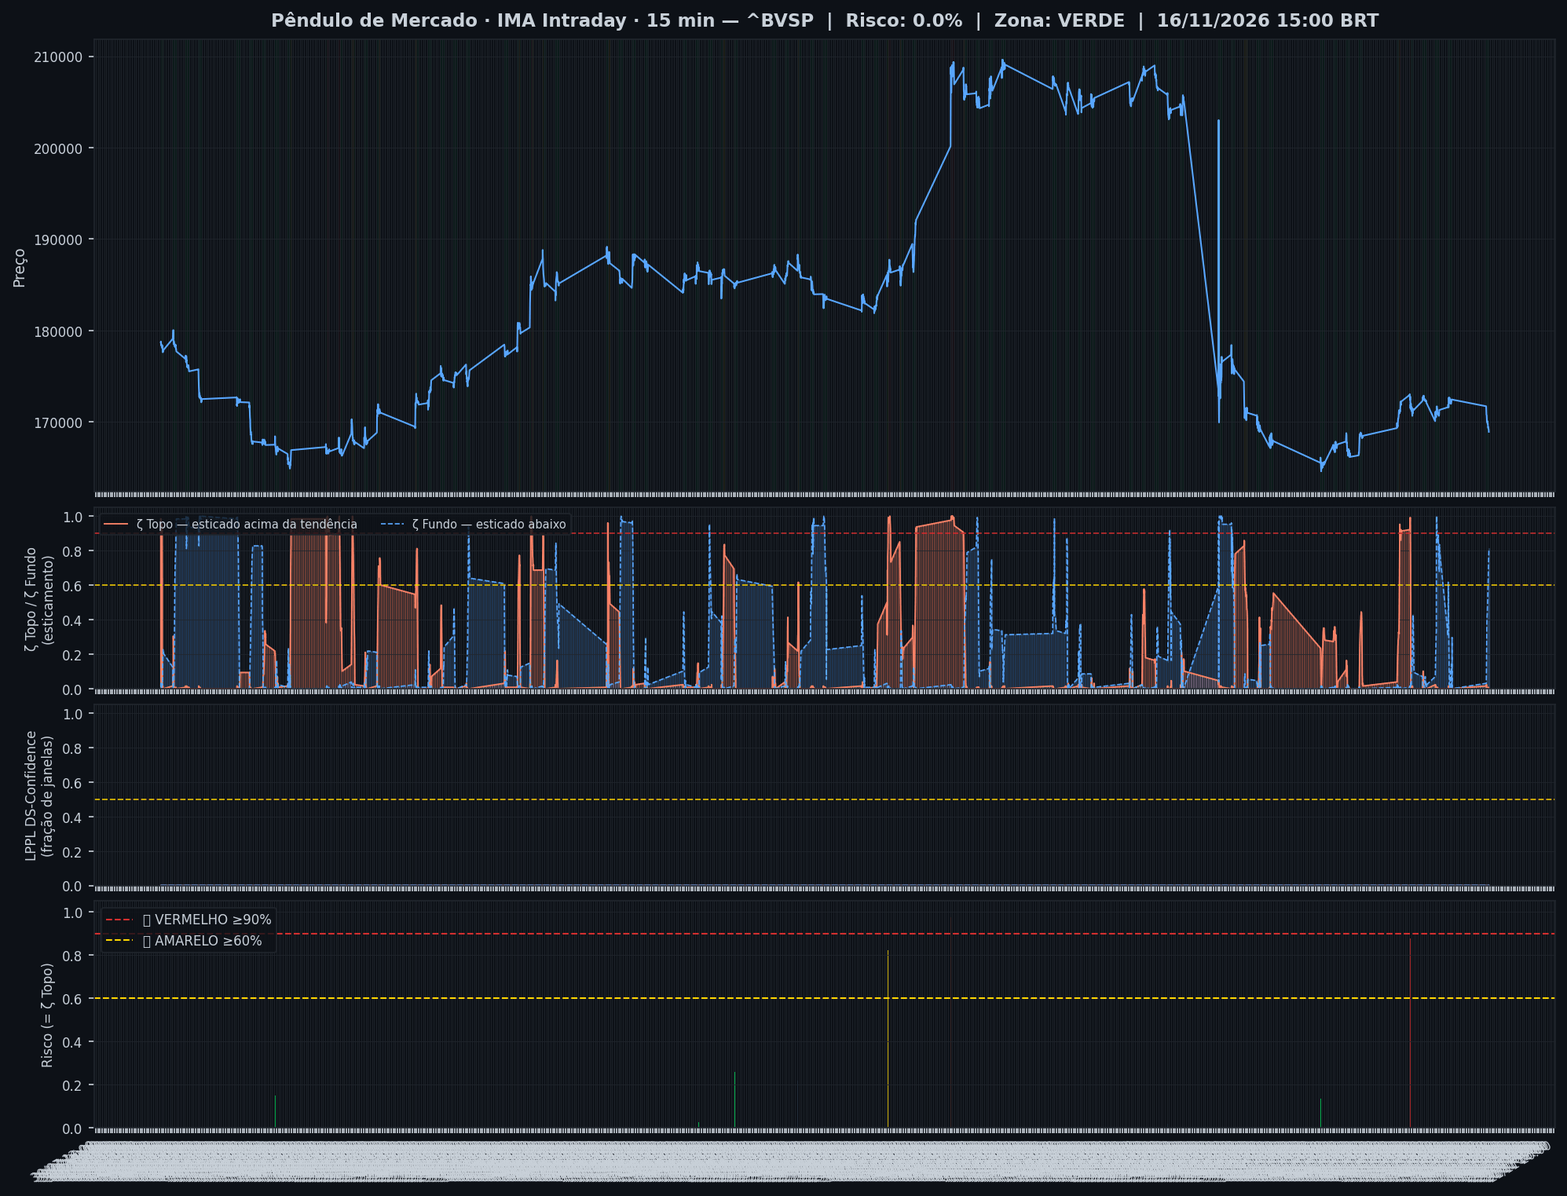
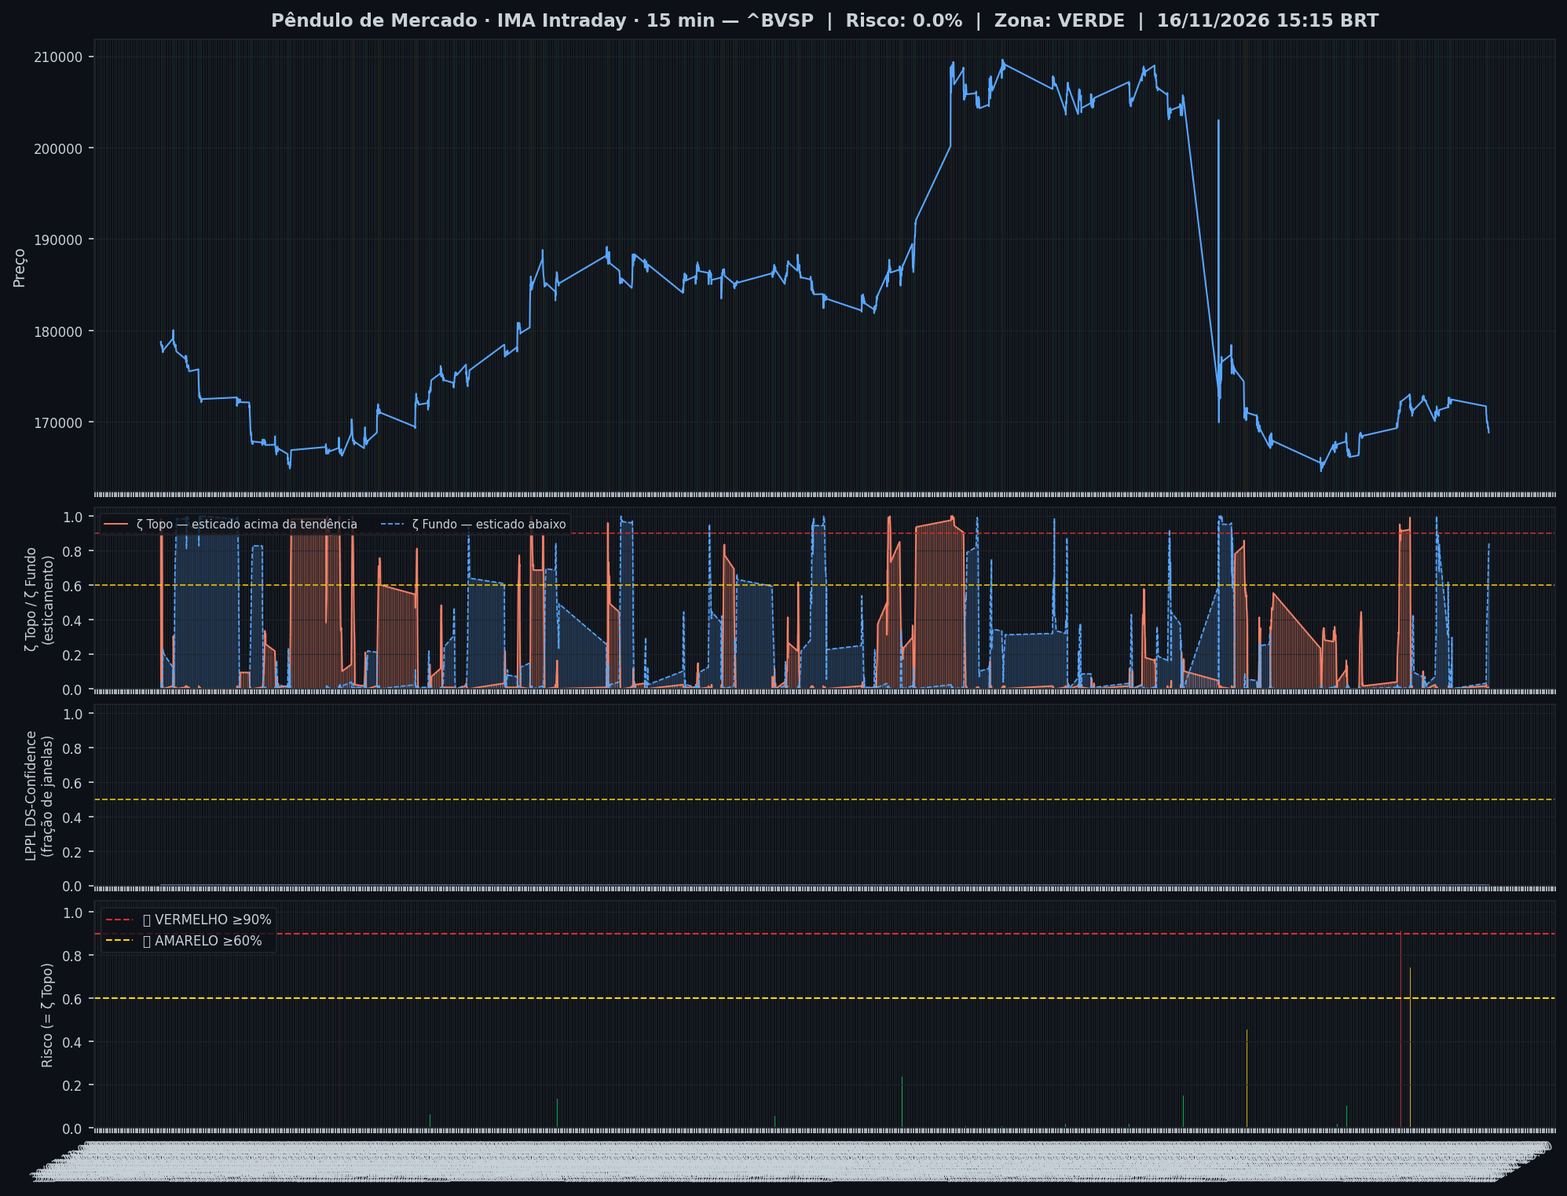
🤖 Auto: Sinal 16/11/2026 15:31

Changed region(s): [[0.0932, 0.432, 0.9634, 0.5863], [0.0311, 0.9258, 0.9945, 0.9875]]

diff --git a/quartz.layout.ts b/quartz.layout.ts
@@ -56,7 +56,8 @@ const menuCelular = Component.Explorer({
   useSavedState: true,
   sortFn: (a, b) => {
     const ordem = ["por-onde-comecar", "avisos", "diario", "intraday", "amplitude", "larry-williams",
-                   "tecnico", "calendario", "juros", "operacoes", "sinais-topo-fundo", "estrangeiros",
+                   "tecnico", "calendario", "juros", "inflacao-e-cambio", "operacoes",
+                   "sinais-topo-fundo", "estrangeiros",
                    "adr", "ofertas", "posicionamento", "agro", "linha-do-tempo", "historico",
                    "historico-anterior", "metodologia", "ranking", "tendencia", "entradas",
                    "ultimas-operacoes", "historico-por-ano", "todos-os-sinais", "tutorial",
@@ -82,13 +83,15 @@ const grupos = [
     "1 · Onde está o mercado",
     (node) => {
       const dentro = ["por-onde-comecar", "avisos", "diario", "intraday", "amplitude",
-                      "larry-williams", "tecnico", "calendario", "juros"]
+                      "larry-williams", "tecnico", "calendario", "juros",
+                      "inflacao-e-cambio"]
       const s = node.slug ?? ""
       return dentro.some((d) => s === d || s.startsWith(d + "/"))
     },
     (a, b) => {
       const ordem = ["por-onde-comecar", "avisos", "diario", "intraday", "amplitude",
-                     "larry-williams", "tecnico", "calendario", "juros", "avanco-declinio"]
+                     "larry-williams", "tecnico", "calendario", "juros",
+                     "inflacao-e-cambio", "avanco-declinio"]
       const ia = ordem.indexOf(a.slugSegment)
       const ib = ordem.indexOf(b.slugSegment)
       if (ia !== -1 || ib !== -1) return (ia === -1 ? 99 : ia) - (ib === -1 ? 99 : ib)

diff --git a/content/intraday/2026-11-16.md b/content/intraday/2026-11-16.md
@@ -1,10 +1,10 @@
 ---
-title: "🟢 Intraday 16/11/2026 15:00 BRT — VERDE"
+title: "🟢 Intraday 16/11/2026 15:15 BRT — VERDE"
 date: 2026-11-16
 tags: [intraday]
 ---
 
-> [!info] Onde o mercado está agora (16/11 15:00, candles de 15 min): **🔵 Esticado para baixo**
+> [!info] Onde o mercado está agora (16/11 15:15, candles de 15 min): **🔵 Esticado para baixo**
 > `Pânico ◀──●──────────────────▶ Euforia`
 >
 > O Ibovespa caiu mais rápido que o normal e está abaixo da sua faixa habitual.
@@ -20,26 +20,26 @@ tags: [intraday]
 > | 📍 **Sinais** | hoje: nenhum sinal | [abrir](sinais-topo-fundo/) |
 > | 🧪 **Placar ao vivo** | 1 operação(ões), 0 com lucro, soma -0,8% | [abrir](operacoes/) |
 
-> [!success] IMA Intraday · 15 min (16/11 15:00): 🟢 **VERDE** — Risco 0% · ＝ +0 p.p. vs leitura anterior
+> [!success] IMA Intraday · 15 min (16/11 15:15): 🟢 **VERDE** — Risco 0% · ＝ +0 p.p. vs leitura anterior
 > `░░░░░░░░░░░░░░░░░░░░`
 > Preço na faixa normal em torno da tendência.
 
 
-> [!warning] ⚠ Nível alto agora — IMA Intraday · 15 min (16/11 15:00)
-> - 🔵 **ζ Fundo 81%** — preço esticado abaixo da tendência
+> [!warning] ⚠ Nível alto agora — IMA Intraday · 15 min (16/11 15:15)
+> - 🔵 **ζ Fundo 84%** — preço esticado abaixo da tendência
 
 > [!note] 🧭 IMA Diário · viés (13/11): 🌱 **Fundo se desfazendo**
 > 📚 só contexto: o pânico passou; sem vantagem estatística confirmada para comprar só por isso
 >
 > *Leitura educacional baseada em 26 anos de dados, não recomendação. [Como usar](../metodologia/crise#3-como-usar-na-prática).*
 
-| Indicador — IMA Intraday · 15 min (16/11 15:00) | Valor |
+| Indicador — IMA Intraday · 15 min (16/11 15:15) | Valor |
 |---|---|
 | 🔴 ζ Topo — preço esticado acima da tendência | **0%** |
-| 🔵 ζ Fundo — preço esticado abaixo da tendência | 🔵 **81%** |
+| 🔵 ζ Fundo — preço esticado abaixo da tendência | 🔵 **84%** |
 | 🫧 LPPL bolha — alta super-exponencial (risco de crash) | 0% |
 | 🫧 LPPL antibolha — queda super-exponencial (risco de repique) | 0% |
-| 📊 Ibovespa | 168.931 pts |
+| 📊 Ibovespa | 168.847 pts |
 
 ![Gráfico do sinal](../graficos/sinal_intraday.png)
 
@@ -47,6 +47,7 @@ tags: [intraday]
 
 | Data | Zona | Evento | Risco | ζ Topo | ζ Fundo | LPPL |
 |---|---|---|---|---|---|---|
+| 2026-11-16 15:15 | 🟢 VERDE |  | **0%** | 0% | 🔵 **84%** | 0% |
 | 2026-11-16 15:00 | 🟢 VERDE |  | **0%** | 0% | 🔵 **81%** | 0% |
 | 2026-11-16 14:45 | 🟢 VERDE |  | **0%** | 0% | 🔵 **79%** | 0% |
 | 2026-11-16 14:30 | 🟢 VERDE |  | **0%** | 0% | 🔵 **77%** | 0% |
@@ -76,50 +77,49 @@ tags: [intraday]
 | 2026-11-13 16:45 | 🟢 VERDE |  | **0%** | 0% | 14% | 0% |
 | 2026-11-13 16:30 | 🟢 VERDE |  | **0%** | 0% | 14% | 0% |
 | 2026-11-13 16:15 | 🟢 VERDE |  | **1%** | 1% | 12% | 0% |
-| 2026-11-13 16:00 | 🟢 VERDE |  | **2%** | 2% | 11% | 0% |
 
 <small>Destaques: 🟡 ≥ 60% · 🔴 ≥ 90% (Risco e ζ Topo) · 🔵 ≥ 60% · 🔪 ≥ 90% (ζ Fundo) · 🫧 ≥ 30% · 🫧🔴 ≥ 50% (LPPL)</small>
 
 ## Monitor Multi-Ativo
 
-**4% dos ativos em tensão** (1🔴 0🟡) · **8 com ζ Fundo alto** — quanto mais ativos disparam juntos, mais confiável o sinal.
+**4% dos ativos em tensão** (1🔴 0🟡) · **9 com ζ Fundo alto** — quanto mais ativos disparam juntos, mais confiável o sinal.
 
 > [!danger] Em destaque no multi-ativo
-> 🔪 **ITAUSA** ζ Fundo 98% · 🔴 **USD/BRL** ζ Topo 98% · 🔵 **ITAUUNIBANCO** ζ Fundo 82% · 🔵 **BRADESCO** ζ Fundo 74% · 🔵 **EMBRAER** ζ Fundo 70% · 🔵 **ULTRAPAR** ζ Fundo 66% · 🔵 **VALE** ζ Fundo 66% · 🔵 **AXIA ENERGIA** ζ Fundo 66% · 🔵 **COPEL** ζ Fundo 60%
+> 🔴 **USD/BRL** ζ Topo 99% · 🔪 **ITAUSA** ζ Fundo 98% · 🔵 **ITAUUNIBANCO** ζ Fundo 84% · 🔵 **BRADESCO** ζ Fundo 73% · 🔵 **VALE** ζ Fundo 66% · 🔵 **EMBRAER** ζ Fundo 66% · 🔵 **ULTRAPAR** ζ Fundo 66% · 🔵 **AXIA ENERGIA** ζ Fundo 64% · 🔵 **COPEL** ζ Fundo 62% · 🔵 **PETROBRAS** ζ Fundo 60%
 
 | Zona | Ativo | Setor | ζ Topo | ζ Fundo |
 |---|---|---|---|---|
+| 🔴 | **USD/BRL** | Câmbio | 🔴 **99.2%** | 0.0% |
 | 🟢 | **ITAUSA** | Financeiro | 0.0% | 🔪 **98.4%** |
-| 🔴 | **USD/BRL** | Câmbio | 🔴 **98.4%** | 0.8% |
-| 🟢 | **ITAUUNIBANCO** | Financeiro | 0.0% | 🔵 **82.0%** |
-| 🟢 | **BRADESCO** | Financeiro | 0.0% | 🔵 **74.2%** |
-| 🟢 | **EMBRAER** | Outros | 0.0% | 🔵 **70.3%** |
-| 🟢 | **ULTRAPAR** | Outros | 0.8% | 🔵 **66.4%** |
-| 🟢 | **VALE** | Mineração | 0.8% | 🔵 **65.6%** |
-| 🟢 | **AXIA ENERGIA** | Energia | 0.0% | 🔵 **65.6%** |
-| 🟢 | **COPEL** | Energia | 0.0% | 🔵 **60.2%** |
-| 🟢 | **PETROBRAS** | Petróleo | 0.0% | 57.8% |
-| 🟢 | **WEG** | Industrial | 0.0% | 53.1% |
-| 🟢 | **PETROBRAS** | Petróleo | 0.8% | 51.6% |
-| 🟢 | **GERDAU** | Siderurgia | 0.0% | 25.0% |
-| 🟢 | **REDE D OR** | Saúde | 0.0% | 21.1% |
-| 🟢 | **BRASIL** | Financeiro | 18.8% | 0.0% |
-| 🟢 | **AMBEV S/A** | Consumo | 0.0% | 17.2% |
-| 🟢 | **SABESP** | Saneamento | 0.0% | 5.5% |
-| 🟢 | **LOCALIZA** | Aluguel | 0.0% | 5.5% |
-| 🟢 | **ENEVA** | Energia | 0.0% | 4.7% |
-| 🟢 | **EQUATORIAL** | Energia | 0.0% | 3.9% |
-| 🟢 | **BTGP BANCO** | Financeiro | 0.0% | 3.1% |
-| 🟢 | **SUZANO S.A.** | Papel/Celulose | 3.1% | 0.0% |
-| 🟢 | **VIBRA** | Energia | 1.6% | 0.8% |
-| 🟢 | **PRIO** | Petróleo | 0.8% | 0.0% |
+| 🟢 | **ITAUUNIBANCO** | Financeiro | 0.0% | 🔵 **83.6%** |
+| 🟢 | **BRADESCO** | Financeiro | 0.8% | 🔵 **72.7%** |
+| 🟢 | **VALE** | Mineração | 1.6% | 🔵 **66.4%** |
+| 🟢 | **EMBRAER** | Outros | 0.0% | 🔵 **65.6%** |
+| 🟢 | **ULTRAPAR** | Outros | 0.0% | 🔵 **65.6%** |
+| 🟢 | **AXIA ENERGIA** | Energia | 0.8% | 🔵 **64.1%** |
+| 🟢 | **COPEL** | Energia | 0.0% | 🔵 **61.7%** |
+| 🟢 | **PETROBRAS** | Petróleo | 0.0% | 🔵 **60.2%** |
+| 🟢 | **PETROBRAS** | Petróleo | 0.0% | 53.1% |
+| 🟢 | **WEG** | Industrial | 0.0% | 50.8% |
+| 🟢 | **GERDAU** | Siderurgia | 0.0% | 28.9% |
+| 🟢 | **BRASIL** | Financeiro | 20.3% | 0.0% |
+| 🟢 | **AMBEV S/A** | Consumo | 0.0% | 18.0% |
+| 🟢 | **SUZANO S.A.** | Papel/Celulose | 11.7% | 0.0% |
+| 🟢 | **REDE D OR** | Saúde | 0.0% | 8.6% |
+| 🟢 | **SABESP** | Saneamento | 0.0% | 2.3% |
+| 🟢 | **ENEVA** | Energia | 0.0% | 2.3% |
+| 🟢 | **EQUATORIAL** | Energia | 0.0% | 2.3% |
+| 🟢 | **LOCALIZA** | Aluguel | 0.0% | 1.6% |
+| 🟢 | **BTGP BANCO** | Financeiro | 0.0% | 0.8% |
+| 🟢 | **PRIO** | Petróleo | 0.8% | 0.8% |
+| 🟢 | **VIBRA** | Energia | 0.8% | 0.8% |
 | 🟢 | **B3** | Financeiro | 0.0% | 0.0% |
 
 <small>Destaques: 🟡 ≥ 60% · 🔴 ≥ 90% (Risco e ζ Topo) · 🔵 ≥ 60% · 🔪 ≥ 90% (ζ Fundo) · 🫧 ≥ 30% · 🫧🔴 ≥ 50% (LPPL)</small>
 
 ![Monitor multi-ativo](../graficos/multi_intraday.png)
 
-*Página atualizada em 16/11/2026 15:16 BRT (leitura da barra de 2026-11-16 15:00 BRT).*
+*Página atualizada em 16/11/2026 15:31 BRT (leitura da barra de 2026-11-16 15:15 BRT).*
 
 > [!warning] O que este indicador não faz
 > Medido em 5 anos de Ibovespa, o ζ **não antecipa** topos nem fundos: a capacidade de separar o que sobe do que cai ficou em 0,49–0,52, e 0,50 é moeda jogada ao ar. Ele descreve o estado de agora; não é aviso do que vem. As zonas verde/amarelo/vermelho continuam na página como descrição desse estado — **não as use como sinal de entrada ou saída**.

diff --git a/content/agro/index.md b/content/agro/index.md
@@ -2,7 +2,7 @@
 title: "🌾 Agro: o que a curva está dizendo"
 ---
 
-*Dados da B3 de 13/11/2026 · atualizado em 16/11/2026 09:08*
+*Dados da B3 de 13/11/2026 · atualizado em 16/11/2026 15:21*
 
 
 <!-- NOTAS-INICIO -->
@@ -84,7 +84,7 @@ o ajuste.
 
 A curva do milho **sobe 13,6%** ao longo de 12 meses: a entrega futura vale mais que a imediata. É o desenho de mercado abastecido, em que o preço a termo carrega armazenagem e juros. Para quem tem a mercadoria e consegue estocar, o mercado está pagando pela espera; para quem está comprado em vencimento longo, parte da valorização aparente é só esse carrego, e ele some conforme o contrato se aproxima.
 
-**Base: R\$ 0,05 (+0,1%)** — o vencimento mais curto está acima do físico (R\$ 67,34, *Cotação de Milho - Preço a vista R$/60kg*). Futuro e físico praticamente colados. Base perto de zero costuma aparecer quando o vencimento está prestes a virar — o contrato converge para o indicador na liquidação, e é isso que se vê acontecendo. O valor usado na liquidação é outro: R\$ 67,31 (*MILHO - Média das últimas três cotações R$/60kg*), e é contra ele que o contrato é fechado no vencimento.
+**Base: R\$ 0,05 (+0,1%)** — o vencimento mais curto está acima do físico (R\$ 67,34, *Cotação de Milho - Preço a vista R\$/60kg*). Futuro e físico praticamente colados. Base perto de zero costuma aparecer quando o vencimento está prestes a virar — o contrato converge para o indicador na liquidação, e é isso que se vê acontecendo. O valor usado na liquidação é outro: R\$ 67,31 (*MILHO - Média das últimas três cotações R\$/60kg*), e é contra ele que o contrato é fechado no vencimento.
 
 O milho também é publicado em duas formas de pagamento: R\$ 67,34 à vista e R\$ 68,18 a prazo, com prazo médio de **24,4 dias**. A diferença é **+1,25% no período**, o que equivale a **+20,4% ao ano**. Esse é o juro que o mercado físico cobra embutido no preço, e quem vende a prazo está financiando o comprador a essa taxa. Comparar com o custo do próprio dinheiro — CDI, capital de giro, crédito rural — diz de que lado do balcão está a vantagem: quem consegue pagar à vista compra mais barato do que o dinheiro lhe custa, e quem vende a prazo só ganha se esse juro for maior que o que paga para se financiar.
 
@@ -157,7 +157,7 @@ o ajuste.
 
 A curva do etanol hidratado **vira em 26/02/2027**: sobe até ali e muda de direção depois. Forma assim quase sempre é calendário de safra — aperto numa janela do ano e folga na seguinte. O ponto de virada é a informação: é onde o mercado está dizendo que a oferta muda.
 
-**Base: R\$ 41,50 (+1,4%)** — o vencimento mais curto está acima do físico (R\$ 3.043,50, *Cotação de Etanol - Preço a vista R$/m3*). A bolsa está pagando mais que o balcão. Para quem **tem a mercadoria**, esse prêmio é o que remunera travar preço no futuro em vez de vender agora — vale a pena enquanto cobrir armazenagem e frete até a entrega. Para quem **compra** etanol hidratado, é o aviso de que o futuro embute um custo que o físico ainda não cobra. O valor usado na liquidação é outro: R\$ 3.010,50 (*ETANOL - Liquidação*), e é contra ele que o contrato é fechado no vencimento.
+**Base: R\$ 41,50 (+1,4%)** — o vencimento mais curto está acima do físico (R\$ 3.043,50, *Cotação de Etanol - Preço a vista R\$/m3*). A bolsa está pagando mais que o balcão. Para quem **tem a mercadoria**, esse prêmio é o que remunera travar preço no futuro em vez de vender agora — vale a pena enquanto cobrir armazenagem e frete até a entrega. Para quem **compra** etanol hidratado, é o aviso de que o futuro embute um custo que o físico ainda não cobra. O valor usado na liquidação é outro: R\$ 3.010,50 (*ETANOL - Liquidação*), e é contra ele que o contrato é fechado no vencimento.
 
 ## Minicontrato de Soja do CME Group · SJC
 **US\$ 27,15** no vencimento mais próximo

diff --git a/content/index.md b/content/index.md
@@ -6,9 +6,9 @@ tags: [home]
 
 **As ondas do mercado, explicadas.** Leitura do Ibovespa com estatística de 26 anos, baseada no trabalho de pesquisadores e traders reconhecidos e adaptada por Jarbas Daniel da Costa.
 
-*Última atualização: 16/11/2026 15:16 BRT · Intraday 15min*
+*Última atualização: 16/11/2026 15:31 BRT · Intraday 15min*
 
-> [!info] Onde o mercado está agora (16/11 15:00, candles de 15 min): **🔵 Esticado para baixo**
+> [!info] Onde o mercado está agora (16/11 15:15, candles de 15 min): **🔵 Esticado para baixo**
 > `Pânico ◀──●──────────────────▶ Euforia`
 >
 > O Ibovespa caiu mais rápido que o normal e está abaixo da sua faixa habitual.
@@ -16,8 +16,8 @@ tags: [home]
 >
 > *Leitura educacional baseada em 26 anos de dados. Não é recomendação de investimento.*
 
-> [!warning] ⚠ Nível alto agora — IMA Intraday · 15 min (16/11 15:00)
-> - 🔵 **ζ Fundo 81%** — preço esticado abaixo da tendência
+> [!warning] ⚠ Nível alto agora — IMA Intraday · 15 min (16/11 15:15)
+> - 🔵 **ζ Fundo 84%** — preço esticado abaixo da tendência
 
 ## Agora
 
@@ -52,18 +52,18 @@ tags: [home]
 > *Leitura educacional baseada em 26 anos de dados, não recomendação. [Como usar](metodologia/crise#3-como-usar-na-prática).*
 
 > [!info]- 🌊 Detalhes do Sinal IMA (indicadores e últimos 7 pregões)
-> > [!success] IMA Intraday · 15 min (16/11 15:00): 🟢 **VERDE** — Risco 0% · ＝ +0 p.p. vs leitura anterior
+> > [!success] IMA Intraday · 15 min (16/11 15:15): 🟢 **VERDE** — Risco 0% · ＝ +0 p.p. vs leitura anterior
 > > `░░░░░░░░░░░░░░░░░░░░`
 > > Preço na faixa normal em torno da tendência.
 >
 >
-> | Indicador — IMA Intraday · 15 min (16/11 15:00) | Valor |
+> | Indicador — IMA Intraday · 15 min (16/11 15:15) | Valor |
 > |---|---|
 > | 🔴 ζ Topo — preço esticado acima da tendência | **0%** |
-> | 🔵 ζ Fundo — preço esticado abaixo da tendência | 🔵 **81%** |
+> | 🔵 ζ Fundo — preço esticado abaixo da tendência | 🔵 **84%** |
 > | 🫧 LPPL bolha — alta super-exponencial (risco de crash) | 0% |
 > | 🫧 LPPL antibolha — queda super-exponencial (risco de repique) | 0% |
-> | 📊 Ibovespa | 168.931 pts |
+> | 📊 Ibovespa | 168.847 pts |
 >
 > **Multi-ativo:** 4% em tensão (1🔴 0🟡 de 25 ativos)
 >
@@ -71,7 +71,7 @@ tags: [home]
 >
 > | Data | Zona | Risco | ζ Topo | ζ Fundo | LPPL |
 > |---|---|---|---|---|---|
-> | [16/11/2026](intraday/2026-11-16) | 🟢 VERDE | **0%** | 0% | 🔵 **81%** | 0% |
+> | [16/11/2026](intraday/2026-11-16) | 🟢 VERDE | **0%** | 0% | 🔵 **84%** | 0% |
 > | [13/11/2026](intraday/2026-11-13) | 🟢 VERDE | **0%** | 0% | 0% | 0% |
 >
 > <small>Destaques: 🟡 ≥ 60% · 🔴 ≥ 90% (Risco e ζ Topo) · 🔵 ≥ 60% · 🔪 ≥ 90% (ζ Fundo) · 🫧 ≥ 30% · 🫧🔴 ≥ 50% (LPPL)</small>

diff --git a/content/por-onde-comecar.md b/content/por-onde-comecar.md
@@ -37,6 +37,8 @@ indicadores clássicos.
 - 📅 [Calendário econômico](calendario) — o que pode mexer com tudo isso nos próximos dias
 - 📉 [Juros: o que o mercado paga × o que os economistas esperam](juros/) — a curva de DI da
   B3 contra o consenso do Boletim Focus, ano a ano e na mesma grandeza
+- 🧮 [Inflação e dólar: o que o mercado paga × o que os economistas esperam](inflacao-e-cambio/)
+  — a inflação implícita (DI contra DAP) e a curva de dólar futuro, também contra o Focus
 
 **A página de juros merece uma palavra à parte**, porque ela responde uma pergunta que as
 outras não tocam. Todas as medidas acima olham o mercado de ações. A curva de juros é o preço
@@ -45,6 +47,12 @@ pontos, cada real de lucro futuro passa a valer menos hoje, e isso acontece ante
 indicador técnico acusar. Comparar essa curva com o que os economistas projetam mostra se o
 mercado está pagando prêmio para carregar risco — e prêmio grande num horizonte específico é
 o mercado dizendo onde ele acha que o problema está.
+
+**A página de inflação e dólar continua a mesma conta nas outras duas pontas.** A inflação
+implícita sai da diferença entre o contrato de juro nominal e o de juro real, e serve para
+uma decisão concreta: escolher entre prefixado e IPCA+. Já a curva de dólar futuro não é
+previsão de ninguém — é o diferencial de juros embutido num preço, e confundir as duas
+coisas é o erro mais caro que se comete lendo manchete de mercado.
 
 **Como usar:** como contexto, não como gatilho. Um mercado esticado pode continuar subindo por
 meses. O que estas páginas dizem é **quanto espaço existe** para o movimento continuar, e quanto

diff --git a/content/operacoes/entradas.md b/content/operacoes/entradas.md
@@ -31,7 +31,7 @@ description: "Compra depois de um sinal de fundo: Nadaraya no diário, semáforo
 > | Diário · Semáforo N3 após ζ Fundo | 07/07/26 a 172.021 | 10/08/26 a 172.021 | **+0,0%** | stop no preço de entrada |
 > | H4 · Semáforo N2 | 12/06/26 14h a 171.134 | 15/06/26 14h a 171.134 | **+0,0%** | stop no preço de entrada |
 >
-> <small>Atualizado 13/11 19:00 · checado no pregão às 15:15. Nota: ✅ passou no teste fora da amostra (walk-forward 2008–2026) · 🧪 em teste (H4, com aviso no Telegram) ou em observação (ζ, sem aviso) · 🧪 na tabela = operação do teste ao vivo.</small>
+> <small>Atualizado 13/11 19:00 · checado no pregão às 15:30. Nota: ✅ passou no teste fora da amostra (walk-forward 2008–2026) · 🧪 em teste (H4, com aviso no Telegram) ou em observação (ζ, sem aviso) · 🧪 na tabela = operação do teste ao vivo.</small>
 >
 > *Regras: depois de um sinal de fundo, o Diário entra quando o Nadaraya vira para cima; o Semanal e o H4 entram quando um fundo do semáforo fica fixo. Stop e saída de cada regra na [metodologia](metodologia/regras-de-operacao#entradas-do-método). Nenhuma regra de venda passou no teste. Os números do histórico têm viés de escolha (overfitting); o placar ao vivo é o que vale. Leitura educacional do método, não recomendação.*
 

diff --git a/content/historico.md b/content/historico.md
@@ -5,7 +5,7 @@ tags: [historico]
 
 # 📜 Histórico de leituras (v5)
 
-**2.401 leituras** desde 2026-07-03. Na página ficam os últimos 3 dias leitura por leitura e o resumo de cada dia anterior; o registro inteiro está no arquivo para baixar.
+**2.402 leituras** desde 2026-07-03. Na página ficam os últimos 3 dias leitura por leitura e o resumo de cada dia anterior; o registro inteiro está no arquivo para baixar.
 
 [**Baixar o histórico completo**](historico-completo.csv) (105 KB · abre no Excel e no LibreOffice)
 
@@ -16,6 +16,7 @@ tags: [historico]
 
 | Data | Modo | Zona | Risco | IMA | LPPL |
 |---|---|---|---|---|---|
+| 2026-11-16 15:15 | intraday | 🟢 VERDE | 0% | 0% | 0% |
 | 2026-11-16 15:00 | intraday | 🟢 VERDE | 0% | 0% | 0% |
 | 2026-11-16 14:45 | intraday | 🟢 VERDE | 0% | 0% | 0% |
 | 2026-11-16 14:30 | intraday | 🟢 VERDE | 0% | 0% | 0% |

diff --git a/content/operacoes/ranking.md b/content/operacoes/ranking.md
@@ -5,7 +5,7 @@ tags: [operacoes]
 description: "As regras de compra do site ordenadas pelo resultado, com treino, teste e placar ao vivo"
 ---
 
-*Atualizado 16/11/2026 15:16 · histórico simulado com as regras congeladas em 23/10/2026 + placar ao vivo.*
+*Atualizado 16/11/2026 15:31 · histórico simulado com as regras congeladas em 23/10/2026 + placar ao vivo.*
 
 As regras de compra do site, **da que mais rendeu para a que menos rendeu**. O resultado é por operação, no índice à vista, sem custos e sem juros compostos (a soma é só a soma das operações). **Treino** = entradas de 2001 a 2013 e **teste** = 2014 em diante: uma regra só é confiável se ganhou nos dois. O único resultado sem nenhum ajuste ao histórico é o **placar ao vivo**.
 

diff --git a/content/linha-do-tempo/index.md b/content/linha-do-tempo/index.md
@@ -5,7 +5,7 @@ description: "Todo sinal, ordem, stop e aviso do Pêndulo de Mercado, do mais re
 tags: [eventos]
 ---
 
-*Atualizada 16/11/2026 15:16 BRT · a cada 15 min no pregão e às 19h.*
+*Atualizada 16/11/2026 15:31 BRT · a cada 15 min no pregão e às 19h.*
 
 Tudo o que o sistema fez ou detectou, **do mais recente para o mais antigo**: sinais de topo e fundo, ordens de compra e de venda armadas, compras, vendas, stops, avisos de 🚨 preço perto do nível e mudanças do Sinal IMA. Os **últimos 7 dias** ficam abertos; o resto, por **ano → mês → dia**.
 

diff --git a/content/avisos/index.md b/content/avisos/index.md
@@ -2,7 +2,7 @@
 title: "⚠ Avisos: o que saber antes de usar os números"
 ---
 
-*Gerado em 16/11/2026 15:16*
+*Gerado em 16/11/2026 15:31*
 
 Este site publica muitos números, e cada um tem uma limitação que importa na hora de
 decidir. As limitações estão escritas nas próprias páginas, mas quem chega direto numa
